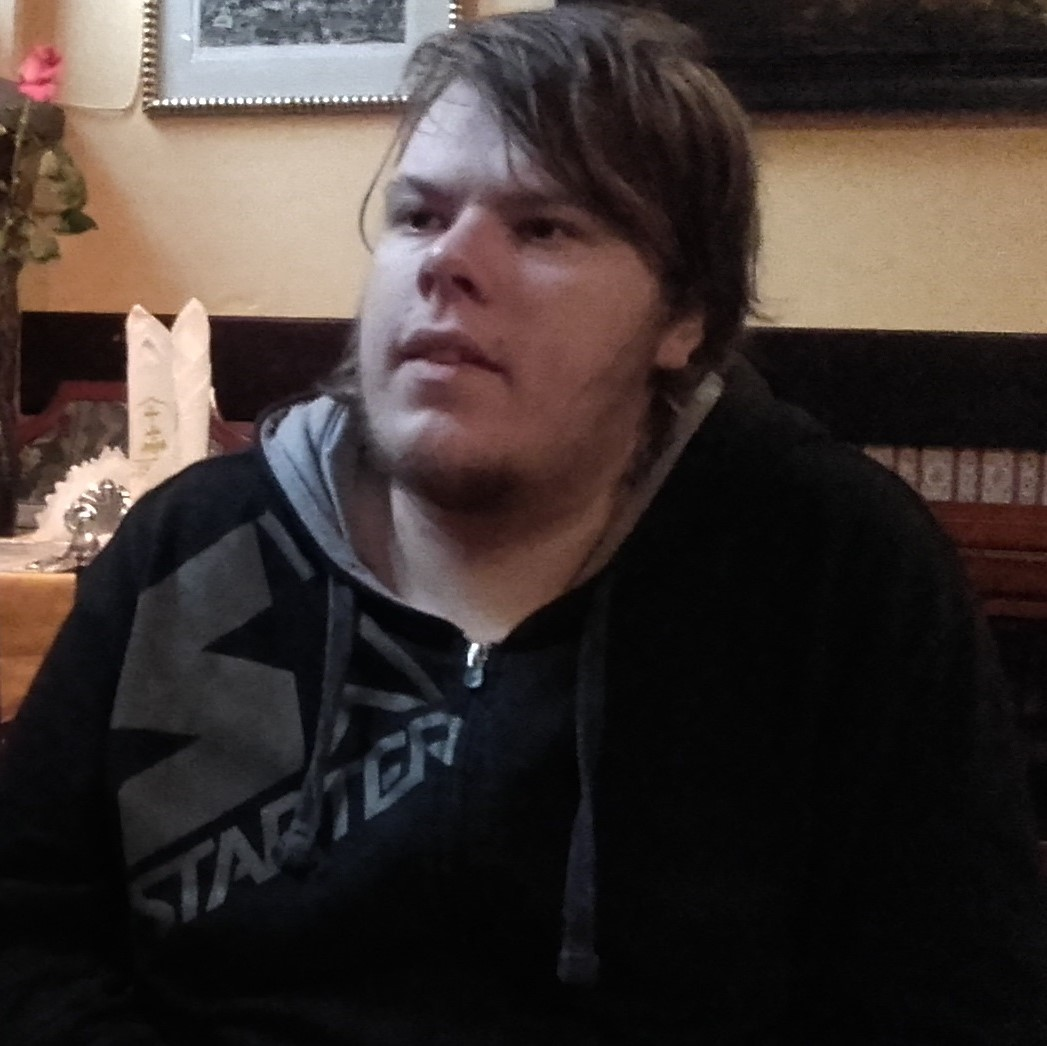
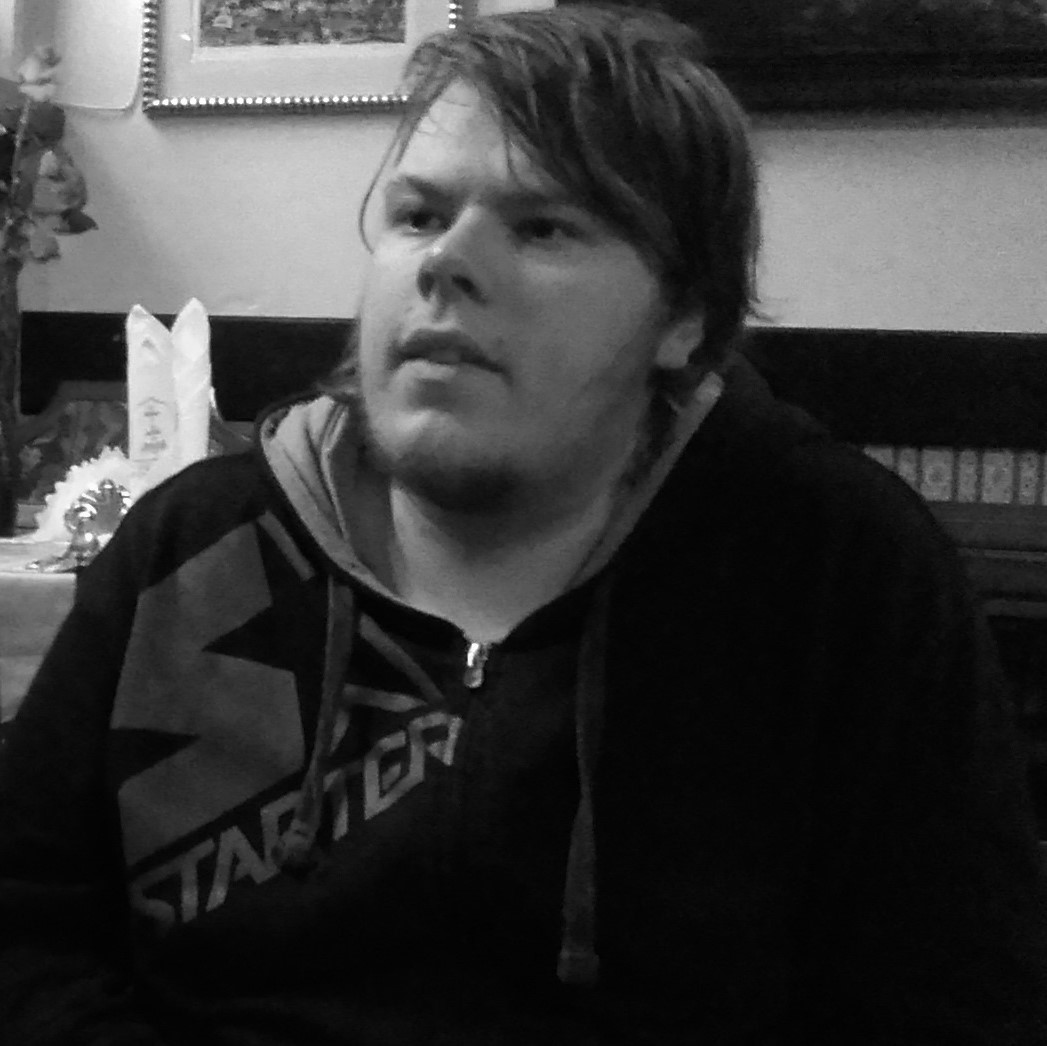
Kuvien yhtenäistäminen

diff --git a/who-are-we.html b/who-are-we.html
@@ -33,7 +33,7 @@
     <div class="profile-container">
       <div class="profile">
         <h2>Julius</h2>
-        <img class="profile-image" src="images/julle.png" alt="Julius">
+        <img class="profile-image" src="images/julle.jpg" alt="Julius">
         <p>Web Manager</p>
       </div>
 

diff --git a/styling/mainstyling.css b/styling/mainstyling.css
@@ -84,7 +84,7 @@ a {
 }
 
 a:hover {
-  color: pink;
+  color: DarkGray;
 }
 
 /* borders and whitespace */
